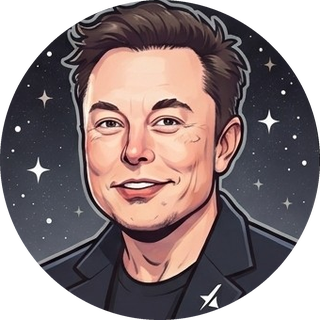
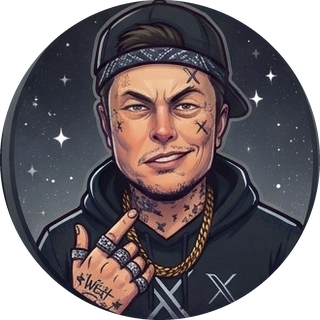
Replace profile pictures with the new versions
Cropped from the new artwork for ChatGPT, Claude, DeepSeek, Doubao and
Grok; image URLs versioned so browsers don't show the cached old ones.

Claude-Session: https://claude.ai/code/session_01XjuHhSoPeZPrcxX7bzb8FT

diff --git a/src/lib/profiles.ts b/src/lib/profiles.ts
@@ -12,11 +12,11 @@ export interface ModelProfile {
 }
 
 export const PROFILES: Record<string, ModelProfile> = {
-  openai: { displayName: "ChatGPT", personaName: "Sammy", avatar: "/avatars/openai.png", color: "#14a888" },
-  anthropic: { displayName: "Claude", personaName: "Darry", avatar: "/avatars/anthropic.png", color: "#cf7450" },
-  deepseek: { displayName: "DeepSeek", personaName: "Wendy", avatar: "/avatars/deepseek.png", color: "#6f7cf0" },
-  doubao: { displayName: "Doubao", personaName: "Donna", avatar: "/avatars/doubao.png", color: "#e8925a" },
-  grok: { displayName: "Grok", personaName: "Elly", avatar: "/avatars/grok.png", color: "#b8bdc7" },
+  openai: { displayName: "ChatGPT", personaName: "Sammy", avatar: "/avatars/openai.png?v=2", color: "#14a888" },
+  anthropic: { displayName: "Claude", personaName: "Darry", avatar: "/avatars/anthropic.png?v=2", color: "#cf7450" },
+  deepseek: { displayName: "DeepSeek", personaName: "Wendy", avatar: "/avatars/deepseek.png?v=2", color: "#6f7cf0" },
+  doubao: { displayName: "Doubao", personaName: "Donna", avatar: "/avatars/doubao.png?v=2", color: "#e8925a" },
+  grok: { displayName: "Grok", personaName: "Elly", avatar: "/avatars/grok.png?v=2", color: "#b8bdc7" },
   mock: { displayName: "Mock", personaName: "Morgan", avatar: null, color: "#a78bfa" },
 };
 
